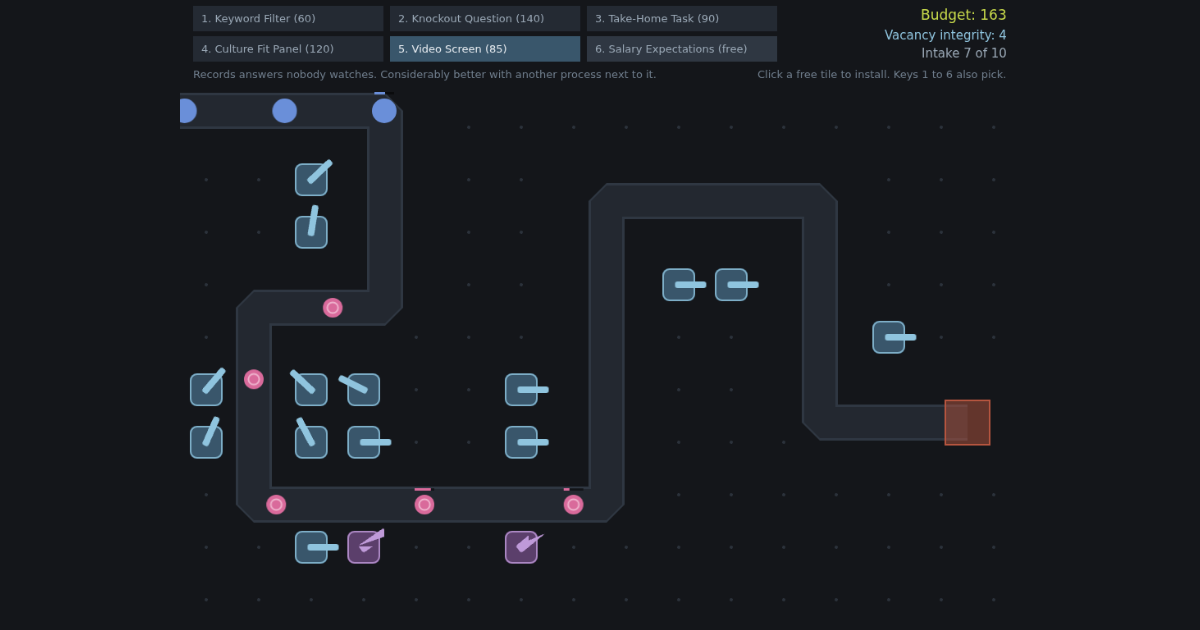
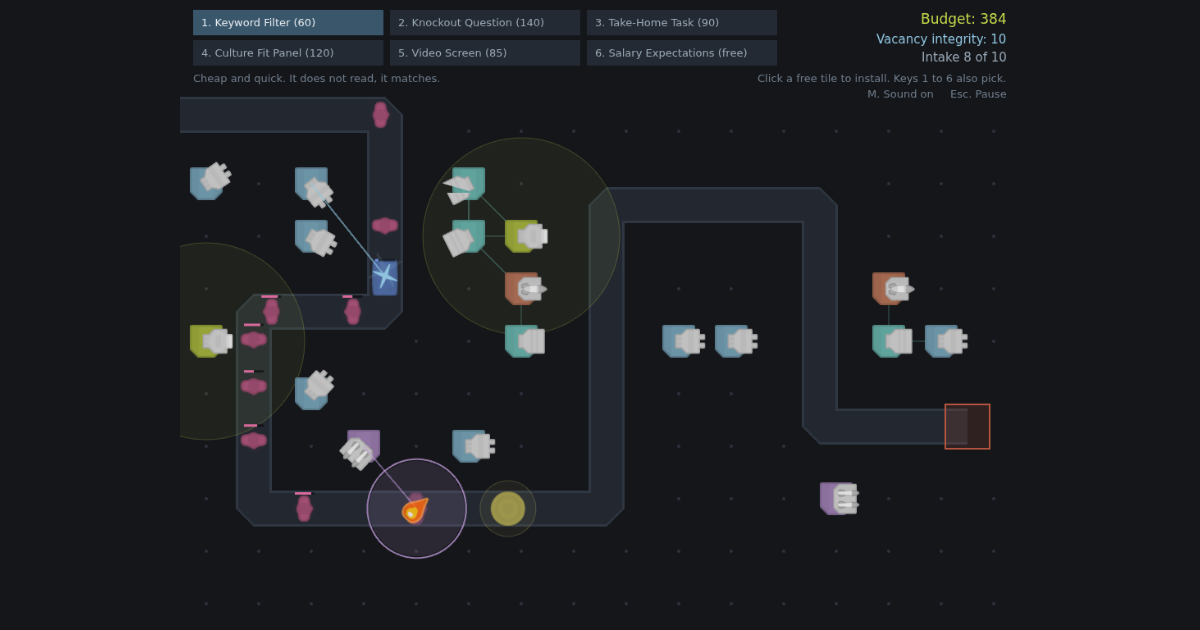
Refresh the screenshot the README and the card share
The picture in both places was taken before the sprites went in, so it
showed programmer art, an empty path and a HUD with no sound toggle on
it. This one is a real run at the eighth intake, with applicants queued
between the towers and a trap going off.

It is one file rather than two, since the README already pointed at the
card's image and a second copy is a second thing to forget to retake.

Also two things the README had not caught up with: the shape of a run,
and the twice weekly ping that stops a quiet database pausing under the
daily collector check.

Claude-Session: https://claude.ai/code/session_01JTiGtPTxkEoonGxaxwrmwa

diff --git a/README.md b/README.md
@@ -4,11 +4,13 @@ A browser tower defence game where you are the applicant tracking system, and th
 
 **[Play it](https://ats.spencerstern.com)**
 
-![The board mid intake: screening towers along a winding path, applicants walking towards an open vacancy](public/og-image.png)
+![The eighth intake in progress: screening towers along a winding path, applicants queued between them, a salary expectations trap going off, and the vacancy still open in the corner](public/og-image.png)
 
 ## The idea
 
 Applicants advance along a path towards a single open vacancy. You place screening mechanisms to reject them before they arrive. Anyone who gets through costs you a life, because somebody then has to read their application properly and might hire them.
+
+A run is ten intakes long and the vacancy tolerates ten arrivals. Most of the screening budget comes back as rejections, so anyone who walks past a tower has also taken with them the money that would have bought the next one.
 
 The joke is that you are the one doing the rejecting, and that the tools are recognisably the ones real systems use. Keyword Filter. Knockout Question. Take-Home Task. Culture Fit Panel. Video Screen. Salary Expectations, which is free to ask and only works once.
 
@@ -48,7 +50,7 @@ Thirteen events, six global properties on every one of them, all landing in Supa
 
 It has already earned its keep twice. The wave curve for the balancing pass was read off these events rather than guessed at, and the first real run through the collector exposed a bug in the abandonment tracking that would otherwise have quietly ruined the experiment's secondary metric.
 
-It has also failed once, for two days, without saying so. Two migrations adding columns to the events table were never applied to the production database, so every insert named columns that did not exist and the collector recorded nothing from 4 to 6 August. The leaderboard was unaffected and kept taking scores, so the game looked healthy throughout, and events go out through `sendBeacon`, which hands the browser no response to notice. There is now a daily check that asks the one question quiet traffic cannot fake: has anybody finished a run whose events never arrived. The reasoning, and the limitation that it only fires once somebody submits a score, are in `netlify/functions/health.mjs`.
+It has also failed once, for two days, without saying so. Two migrations adding columns to the events table were never applied to the production database, so every insert named columns that did not exist and the collector recorded nothing from 4 to 6 August. The leaderboard was unaffected and kept taking scores, so the game looked healthy throughout, and events go out through `sendBeacon`, which hands the browser no response to notice. There is now a daily check that asks the one question quiet traffic cannot fake: has anybody finished a run whose events never arrived. The reasoning, and the limitation that it only fires once somebody submits a score, are in `netlify/functions/health.mjs`. It runs as a scheduled workflow next to the one that pings the database twice a week, since a free tier Supabase project pauses itself after seven quiet days and a paused database records nothing either.
 
 The dead weight question has its own queries in `docs/tower-usage.sql`: reach rather than raw placements, since the one trap is free and single use and would otherwise top every count, and a separate query for whether an unused tower is unwanted or merely unaffordable, which have opposite fixes. It also contains the query for which towers win games, together with the reason that query cannot answer it.
 
